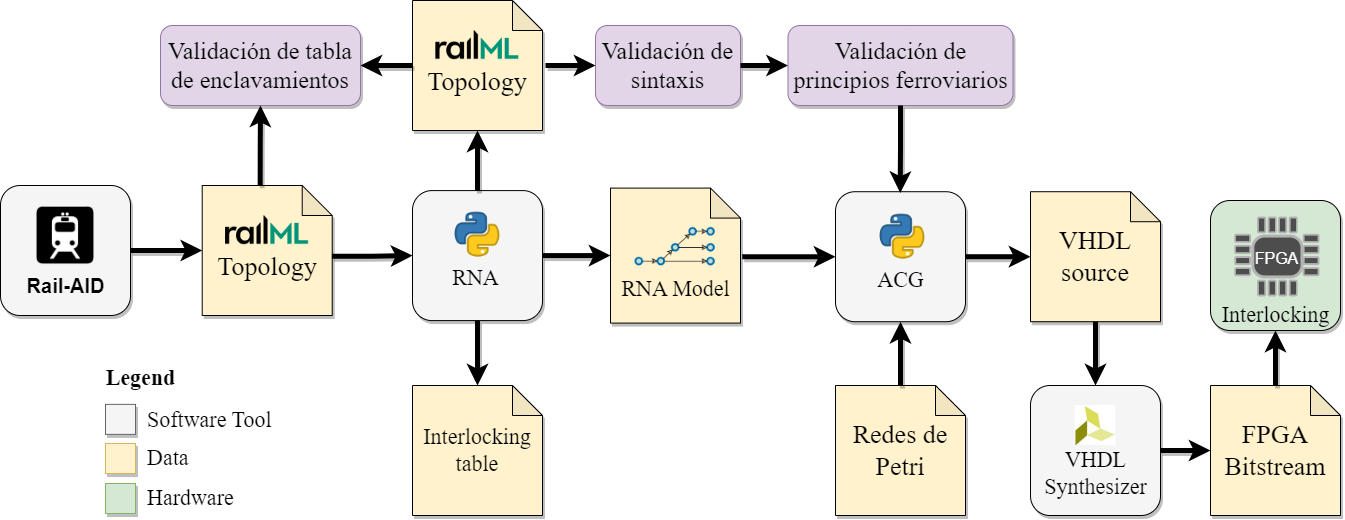
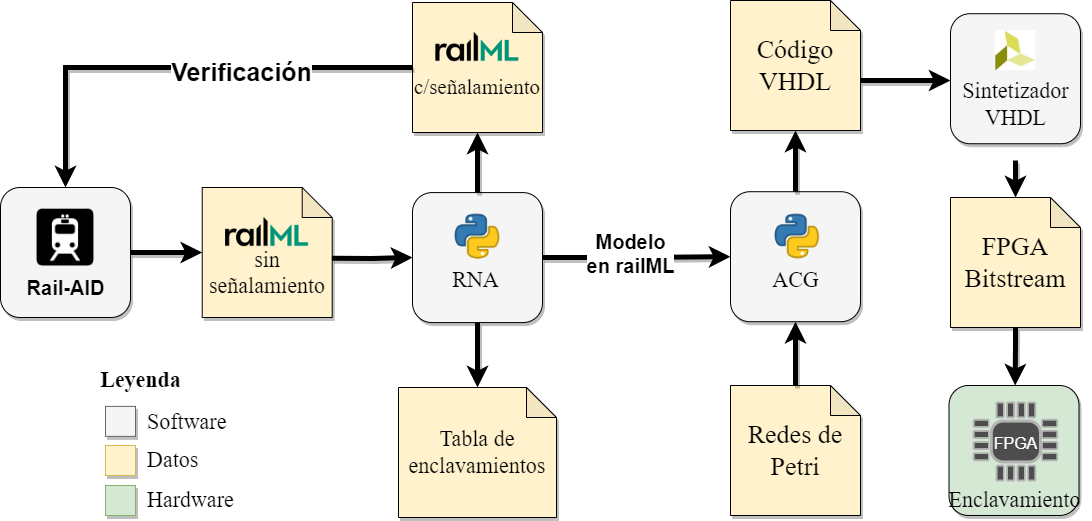
Chapter 1 & 2 finished

diff --git a/propuesta/validacion.tex b/propuesta/validacion.tex
@@ -2,7 +2,7 @@
 
     Para asegurar la validez de nuestro enfoque, analizamos tanto la validez interna como la externa. En cuanto a la validez interna, es importante garantizar una relación causal entre el diseño proporcionado y la señalización generada sin que ningún otro factor externo afecte el resultado. Podemos aprovechar el hecho de que el modelo ferroviario que el RNA utiliza es un sistema lineal debido a que el RNA se basa en redes de grafos y las redes de grafos son sistemas lineales. De esta manera, las señales generadas para dos elementos ferroviarios A y B serían las mismas que las señales generadas para el elemento ferroviario A más las señales generadas para el elemento ferroviario B. Este análisis se puede extender a cualquier número de elementos ferroviarios diferentes. Esto puede provocar solapamientos de señales, por lo tanto, se añade la posibilidad de que los usuarios de la herramienta habiliten o deshabiliten la simplificación, así como establecer la distancia mínima entre elementos para considerar si se superponen o no.
 
-    Los usuarios pueden seleccionar qué elementos ferroviarios se analizarán. La elección de los elementos a analizar es extremadamente poderosa porque nos permite probar la generación de señales para cada elemento ferroviario individualmente para verificar que se estén analizando correctamente. Una vez que esta verificación se realiza para cada elemento y se confirma que no hay factores externos que afecten la señalización generada, podemos seleccionarlos simultáneamente, sin simplificación. De esta manera, la linealidad del sistema se manifestará por sí misma y, en algunos casos, también la necesidad de simplificación de la señalización (ver Sección XXX). Debido a la linealidad, los elementos ferroviarios que están muy cerca uno del otro se pueden considerar como un solo elemento, lo que resulta en una nueva señalización que tendría menos señales que la suma de sus señales anteriores debido a la simplificación de señales redundantes.
+    Los usuarios pueden seleccionar qué elementos ferroviarios se analizarán. La elección de los elementos a analizar es extremadamente poderosa porque nos permite probar la generación de señales para cada elemento ferroviario individualmente para verificar que se estén analizando correctamente. Una vez que esta verificación se realiza para cada elemento y se confirma que no hay factores externos que afecten la señalización generada, podemos seleccionarlos simultáneamente, sin simplificación. De esta manera, la linealidad del sistema se manifestará por sí misma y, en algunos casos, también la necesidad de simplificación de la señalización (ver Sección \label{sec:simplificacion}). Debido a la linealidad, los elementos ferroviarios que están muy cerca uno del otro se pueden considerar como un solo elemento, lo que resulta en una nueva señalización que tendría menos señales que la suma de sus señales anteriores debido a la simplificación de señales redundantes.
 
     Respecto a la demostración formal de los resultados, los estudios académicos (ver Sección \ref{sec:estudios}) suelen depender en su mayoría de métodos formales para verificar y validar sus diseños [VV\_4]. Sin embargo, el RNA se basa en redes de grafos y, según la norma IEC 61508 [IEC], las redes de grafos son un método semi-formal. Además, casi la mitad de los estudios respaldados por las empresas mas importantes de la industria ferroviaria utilizan técnicas semi-formales [VV\_4] para reducir la brecha entre la formalidad académica y las necesidades de la industria. Con el fin de realizar pruebas en sistemas ferroviarios reales, damos mayor énfasis a la validación de un enfoque más práctico y menos formal, de acuerdo con los requisitos y tendencias de la industria ferroviaria.
     

diff --git a/propuesta/arquitectura.tex b/propuesta/arquitectura.tex
@@ -1,3 +1,14 @@
 \section{Arquitectura del sistema}
 
-    \lipsum[1]
+    La herramienta propuesta consta de dos grandes herramientas interconectadas: el RNA y el ACG. Como se ilustra en la Figura \ref{fig:architecture}, existen diferentes módulos a considerar en cada una de las dos herramientas. Los módulos en amarillo corresponden a las clases implementadas en base al estándar railML, los módulos en verde son aquellos algoritmos originales necesarios para resolver el problema, y finalmente los módulos en violeta constituyen todas las verificaciones y validaciones realizadas.
+
+    \begin{figure}[h]
+        \centering
+        \includegraphics[width=1\textwidth]{Figuras/Architecture.png}
+        \centering\caption{Arquitectura del sistema}
+        \label{fig:architecture}
+    \end{figure}
+
+    Las clases implementadas se corresponden uno a uno con las definidas en el estándar railML. De esta manera, cualquier elemento definido en un archivo railML tendrá su equivalente en el modelo de datos utilizado. La librería a implementar debe ser capaz de importar, modificar y exportar archivos en formato railML. Además, la librería debe contemplar todos los atributos que railML defina para cada elemento ferroviario.
+
+    Respecto al RNA, el análisis de redes de grafos es explicado en la Sección \ref{sec:grafos}, la generación de señalamiento en la Sección \ref{sec:generacion}, la simplificación del señalamiento en la Sección \ref{sec:simplificacion} y, finalmente, la generación de rutas ferroviarias y la tabla de enclavamientos es explicado en la Sección \ref{sec:rutas}. En tanto que para el ACG, la inclusión de redes de Petri se encuentra explicada en la Sección \ref{sec:petri}, la generación de componentes en la Sección \ref{sec:componentes}, la generación de conexiones en la Sección \ref{sec:conexiones} y el generador de código en VHDL se explica en la Sección \ref{sec:VHDL}.

diff --git a/propuesta/main.tex b/propuesta/main.tex
@@ -12,10 +12,8 @@
     El RNA importa un archivo en formato railML que describe el sistema, con o sin señalamiento previo. Luego el RNA analiza la topología de la red, detecta todos los elementos ferroviarios involucrados y genera el señalamiento necesario para que la red sea segura. Finalmente, el RNA exporta un nuevo archivo en formato railML con el nuevo señalamiento, además de la tabla de enclavamientos del sistema, con todas las rutas soportadas por esa red ferroviaria. El nuevo archivo railML es utilizado por el ACG para generar código en VHDL [VHDL] automáticamente para ser sintetizado en una plataforma FPGA [FPGA].
     
     El proceso de validación incluye la validación de la sintaxis del archivo railML generado por RNA, la validación de la tabla de enclavamiento generada automáticamente por RNA y, finalmente, la validación del señalamiento generado conforme a los principios de señalamiento (Sección \ref{sec:principios}). Para implementar automáticamente un sistema de enclavamiento, el ACG toma este diseño de señalamiento estático generado automáticamente y un modelo de comportamiento dinámico en redes de Petri. %Un ingeniero de señalamiento puede realizar un análisis dinámico adicional, incluyendo cualquier problema relacionado con el tiempo, como fallas o retrasos, que están más allá del alcance de este artículo.
-    
-
 
 \input{propuesta/enfoque}
 \input{propuesta/arquitectura}
-\input{propuesta/sistema}
+%\input{propuesta/sistema}
 \input{propuesta/validacion}

diff --git a/ACG/main.tex b/ACG/main.tex
@@ -1,9 +1,9 @@
 \chapter{Automatic Code Generator (ACG)}
 \label{sec:ACG}
-\lipsum[1]
-
-\input{ACG/sistemas-enclavamiento/main}
-\input{ACG/arquitectura/main}
-\input{ACG/modelado/main}
-\input{ACG/redundancia/main}
-\input{ACG/validacion/main}
+    \lipsum[1]
+    
+    \input{ACG/sistemas-enclavamiento/main}
+    \input{ACG/arquitectura/main}
+    \input{ACG/modelado/main}
+    \input{ACG/redundancia/main}
+    \input{ACG/validacion/main}

diff --git a/ACG/sistemas-enclavamiento/main.tex b/ACG/sistemas-enclavamiento/main.tex
@@ -1,5 +1,8 @@
 \subsection{Sistemas de enclavamiento}
 
+% MOVER ESTA ETIQUETA
+\label{sec:petri}
+
 A modo de ejemplo, se ilustra en la Figura \ref{fig:enclavamiento} un sistema de cambios en una vía simple con bypass. Esto permite que dos formaciones puedan cruzarse en sentidos opuestos sin colisionar.
 
     \begin{figure}[!h]

diff --git a/RNA/simplificacion/main.tex b/RNA/simplificacion/main.tex
@@ -1,5 +1,5 @@
-\section{Algoritmos de simplificacion de señalamiento}
-
+\section{Algoritmos de simplificación de señalamiento}
+    \label{sec:simplificacion}
 \lipsum[1]
 
 \input{RNA/simplificacion/herencia-horizontal}

diff --git a/RNA/main.tex b/RNA/main.tex
@@ -3,6 +3,7 @@
 
 \input{RNA/elementos-ferroviarios/main}
 \input{RNA/biblioteca/main}
+\input{RNA/grafos}
 \input{RNA/generacion/main}
 \input{RNA/simplificacion/main}
 \input{RNA/generacion-tablas/main}

diff --git a/RNA/generacion/main.tex b/RNA/generacion/main.tex
@@ -1,5 +1,5 @@
-\section{Algoritmos de generacion de señalamiento}
-
+\section{Algoritmos de generación de señalamiento}
+    \label{sec:generacion}
 \lipsum[1]
 
 \input{RNA/generacion/border}

diff --git a/ACG/modelado/main.tex b/ACG/modelado/main.tex
@@ -1,5 +1,9 @@
 \section{Modelado del sistema}
 
+% MOVER ESTAS ETIQUETAS
+\label{sec:componentes}
+\label{sec:conexiones}
+
 \lipsum[1]
 
 \input{ACG/modelado/crossing}

diff --git a/RNA/generacion-tablas/main.tex b/RNA/generacion-tablas/main.tex
@@ -1,4 +1,6 @@
-\section{Generacion de tablas de enclavamiento}
+\section{Generación de tablas de enclavamiento}
+
+\label{sec:rutas}
 
 \lipsum[1]
 

diff --git a/ACG/redundancia/main.tex b/ACG/redundancia/main.tex
@@ -1,5 +1,7 @@
 \section{Redundancia}
 
+\label{sec:VHDL}
+
 \lipsum[1]
 
 \begin{figure}[!h]

diff --git a/RNA/grafos.tex b/RNA/grafos.tex
@@ -1,0 +1,4 @@
+\section{Redes de grafos}
+    \label{sec:grafos}
+
+    \lipsum[1]
